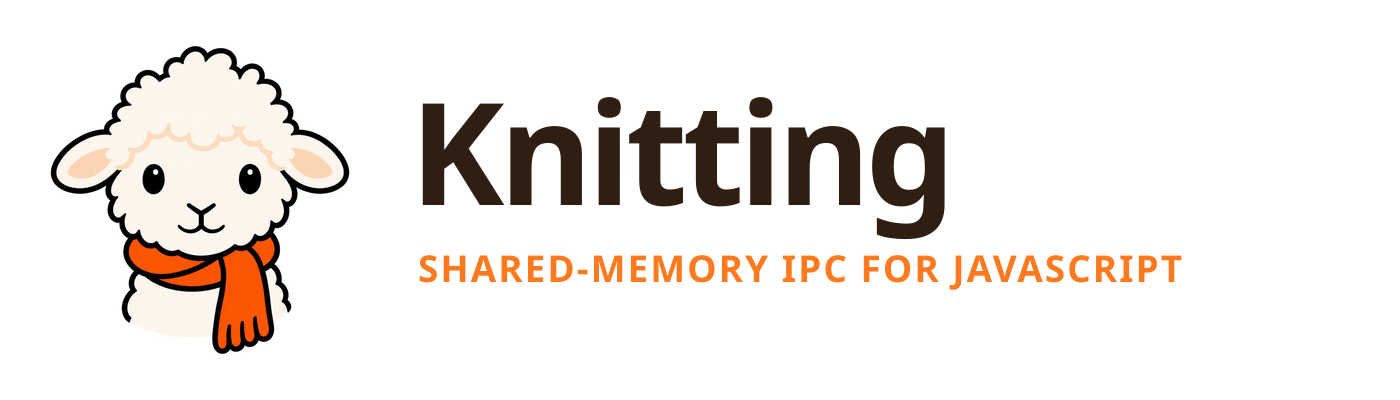
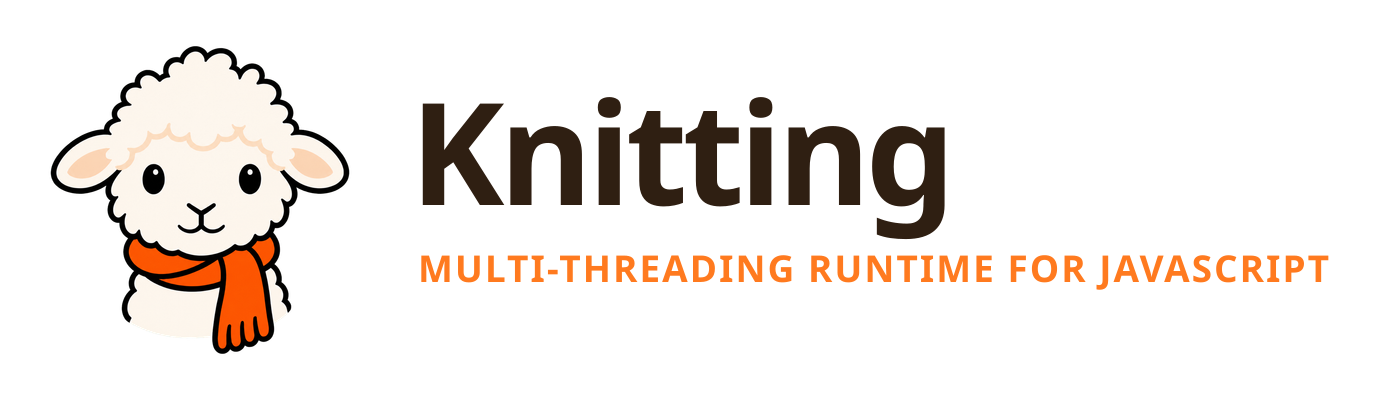
more stuff

Changed region(s): [[0.2764, 0.63, 0.9521, 0.72]]

diff --git a/src/styles/brand-art.css b/src/styles/brand-art.css
@@ -1,32 +1,73 @@
 :root {
+  /* Core UI palette: all interface tones below are derived from these three. */
+  --knit-night: #160c08;
   --knit-orange: #ff7a1f;
-  --knit-ink: #2f1f12;
-  --knit-paper: #fff8e9;
-  --knit-cream: #eed9b7;
-  --knit-peach: #fcead5;
-  --sl-color-accent-low: #4a1f0d;
+  --knit-paper: #fff1d6;
+  --knit-ink: var(--knit-night);
+  --knit-cream: color-mix(in srgb, var(--knit-paper) 88%, var(--knit-orange));
+  --knit-peach: color-mix(in srgb, var(--knit-paper) 78%, var(--knit-orange));
+  --sl-color-white: var(--knit-paper);
+  --sl-color-gray-1: color-mix(in srgb, var(--knit-paper) 94%, var(--knit-night));
+  --sl-color-gray-2: color-mix(in srgb, var(--knit-paper) 78%, var(--knit-night));
+  --sl-color-gray-3: color-mix(in srgb, var(--knit-paper) 56%, var(--knit-night));
+  --sl-color-gray-4: color-mix(in srgb, var(--knit-paper) 36%, var(--knit-night));
+  --sl-color-gray-5: color-mix(in srgb, var(--knit-paper) 20%, var(--knit-night));
+  --sl-color-gray-6: color-mix(in srgb, var(--knit-paper) 10%, var(--knit-night));
+  --sl-color-black: var(--knit-night);
+  --sl-color-blue-low: color-mix(in srgb, var(--knit-orange) 12%, var(--knit-night));
+  --sl-color-blue: var(--knit-orange);
+  --sl-color-blue-high: color-mix(in srgb, var(--knit-paper) 82%, var(--knit-orange));
+  --sl-color-purple-low: var(--sl-color-blue-low);
+  --sl-color-purple: var(--sl-color-blue);
+  --sl-color-purple-high: var(--sl-color-blue-high);
+  --sl-color-green-low: var(--sl-color-blue-low);
+  --sl-color-green: var(--sl-color-blue);
+  --sl-color-green-high: var(--sl-color-blue-high);
+  --sl-color-orange-low: var(--sl-color-blue-low);
+  --sl-color-orange: var(--sl-color-blue);
+  --sl-color-orange-high: var(--sl-color-blue-high);
+  --sl-color-red-low: var(--sl-color-blue-low);
+  --sl-color-red: var(--sl-color-blue);
+  --sl-color-red-high: var(--sl-color-blue-high);
+  --sl-color-accent-low: color-mix(in srgb, var(--knit-orange) 22%, var(--knit-night));
   --sl-color-accent: #ff7a1f;
-  --sl-color-accent-high: #ffd7b8;
-  --sl-color-bg: #160c08;
-  --sl-color-bg-nav: #26140d;
-  --sl-color-bg-sidebar: #1d100b;
+  --sl-color-accent-high: color-mix(in srgb, var(--knit-paper) 82%, var(--knit-orange));
+  --sl-color-bg: var(--knit-night);
+  --sl-color-bg-nav: color-mix(in srgb, var(--knit-night) 88%, var(--knit-paper));
+  --sl-color-bg-sidebar: color-mix(in srgb, var(--knit-night) 94%, var(--knit-paper));
   --sl-color-hairline-light: color-mix(in srgb, var(--knit-cream) 18%, transparent);
   --sl-color-hairline: color-mix(in srgb, var(--knit-cream) 26%, transparent);
-  --sl-color-text: #fff1d6;
-  --sl-color-text-accent: #ff9b5c;
+  --sl-color-text: var(--knit-paper);
+  --sl-color-text-accent: color-mix(in srgb, var(--knit-orange) 76%, var(--knit-paper));
 }
 
 :root[data-theme="light"] {
-  --sl-color-accent-low: #ffe0ca;
-  --sl-color-accent: #d94e00;
-  --sl-color-accent-high: #642200;
-  --sl-color-bg: #fffaf1;
-  --sl-color-bg-nav: #fff3df;
-  --sl-color-bg-sidebar: #fff8e9;
+  --sl-color-white: var(--knit-night);
+  --sl-color-gray-1: color-mix(in srgb, var(--knit-night) 92%, var(--knit-paper));
+  --sl-color-gray-2: color-mix(in srgb, var(--knit-night) 78%, var(--knit-paper));
+  --sl-color-gray-3: color-mix(in srgb, var(--knit-night) 58%, var(--knit-paper));
+  --sl-color-gray-4: color-mix(in srgb, var(--knit-night) 36%, var(--knit-paper));
+  --sl-color-gray-5: color-mix(in srgb, var(--knit-night) 18%, var(--knit-paper));
+  --sl-color-gray-6: color-mix(in srgb, var(--knit-night) 8%, var(--knit-paper));
+  --sl-color-black: var(--knit-paper);
+  --sl-color-blue-low: color-mix(in srgb, var(--knit-paper) 82%, var(--knit-orange));
+  --sl-color-blue: color-mix(in srgb, var(--knit-orange) 78%, var(--knit-night));
+  --sl-color-blue-high: color-mix(in srgb, var(--knit-night) 72%, var(--knit-orange));
+  --sl-color-accent-low: color-mix(in srgb, var(--knit-paper) 82%, var(--knit-orange));
+  --sl-color-accent: color-mix(in srgb, var(--knit-orange) 78%, var(--knit-night));
+  --sl-color-accent-high: color-mix(in srgb, var(--knit-night) 72%, var(--knit-orange));
+  --sl-color-bg: color-mix(in srgb, var(--knit-paper) 96%, var(--knit-orange));
+  --sl-color-bg-nav: var(--knit-paper);
+  --sl-color-bg-sidebar: color-mix(in srgb, var(--knit-paper) 97%, var(--knit-orange));
   --sl-color-hairline-light: color-mix(in srgb, var(--knit-ink) 10%, transparent);
   --sl-color-hairline: color-mix(in srgb, var(--knit-ink) 18%, transparent);
-  --sl-color-text: #39261a;
-  --sl-color-text-accent: #b83f00;
+  --sl-color-text: color-mix(in srgb, var(--knit-night) 88%, var(--knit-paper));
+  --sl-color-text-accent: color-mix(in srgb, var(--knit-orange) 70%, var(--knit-night));
+}
+
+body {
+  /* Keep normal reading text at the browser-default 16px baseline. */
+  font-size: 1rem;
 }
 
 .site-title {

diff --git a/src/lib/llms.ts b/src/lib/llms.ts
@@ -5,7 +5,7 @@ type Doc = CollectionEntry<"docs">;
 export const TITLE = "Knitting";
 
 export const TAGLINE =
-  "Knitting is a zero-dependency worker pool over a shared-memory IPC runtime for Node.js, Deno, and Bun. Export a function, create a pool, and call it like a normal async function — on real threads or isolated processes.";
+  "Knitting is a zero-dependency multi-threading runtime and worker pool for Node.js, Deno, and Bun. Export a function, create a pool, and call it like a normal async function — on real threads or isolated processes.";
 
 // A small, hand-maintained cheat sheet of the things an AI most often gets
 // wrong about Knitting. The page listings below are generated from the docs,
